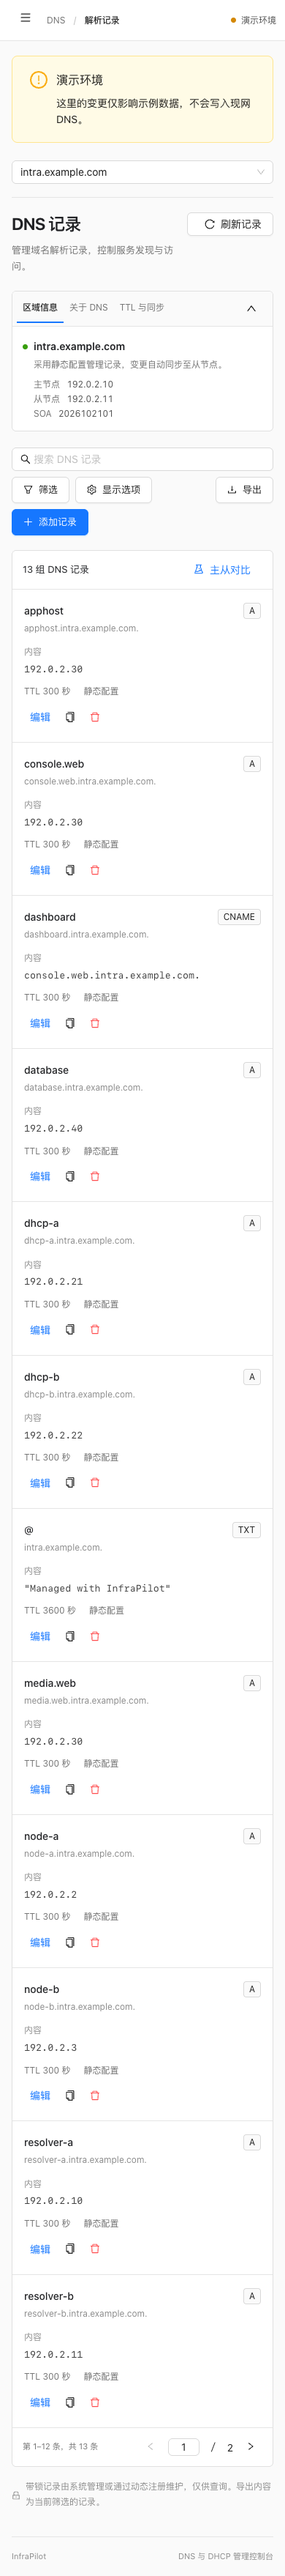
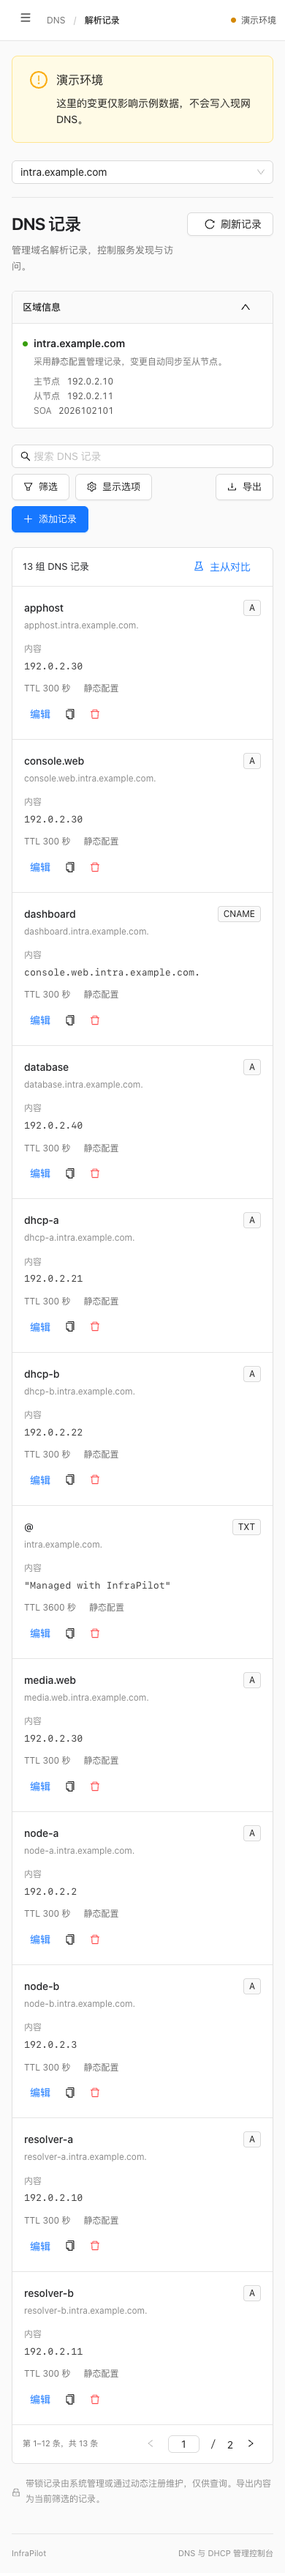
Simplify DNS zone information card

diff --git a/frontend/src/views/RecordsView.vue b/frontend/src/views/RecordsView.vue
@@ -74,8 +74,7 @@ const page = ref(1),
   pageSize = ref(12),
   editableOnly = ref(false);
 const visibleColumns = ref(["values", "management", "ttl"]);
-const referenceOpen = ref(true),
-  referenceTab = ref("zone");
+const referenceOpen = ref(true);
 const media = window.matchMedia("(max-width: 760px)");
 const mobile = ref(media.matches);
 function resize(e: MediaQueryListEvent) {
@@ -282,73 +281,40 @@ function shortName(name: string) {
   <a-skeleton v-if="loading" active :paragraph="{ rows: 8 }" />
   <template v-if="data">
     <section class="dns-reference">
-      <div class="reference-tabs">
-        <button
-          v-for="tab in [
-            { id: 'zone', label: '区域信息' },
-            { id: 'dns', label: '关于 DNS' },
-            { id: 'ttl', label: 'TTL 与同步' },
-          ]"
-          :key="tab.id"
-          :class="{ active: referenceTab === tab.id }"
-          :aria-pressed="referenceTab === tab.id"
-          @click="
-            referenceTab = tab.id;
-            referenceOpen = true;
-          "
-        >
-          {{ tab.label }}</button
-        ><a-button
+      <div class="reference-header">
+        <span class="reference-title">区域信息</span>
+        <a-button
           type="text"
           :aria-label="referenceOpen ? '收起区域说明' : '展开区域说明'"
           :aria-expanded="referenceOpen"
+          aria-controls="zone-information"
           @click="referenceOpen = !referenceOpen"
           ><DownOutlined :rotate="referenceOpen ? 180 : 0"
         /></a-button>
       </div>
-      <div v-if="referenceOpen" class="reference-content">
-        <template v-if="referenceTab === 'zone'"
-          ><span class="status-dot"></span>
-          <div>
-            <h2>{{ data.zone.name.replace(/\.$/, "") }}</h2>
-            <p>
-              {{
-                data.zone.readOnly
-                  ? "记录通过动态注册生成，并随客户端租约自动更新。"
-                  : "采用静态配置管理记录，变更自动同步至从节点。"
-              }}
-            </p>
-            <div class="zone-meta">
-              <span
-                >主节点 <b>{{ data.zone.primary }}</b></span
-              ><span
-                >从节点
-                <b>{{ data.zone.secondaries.join(", ") || "未配置" }}</b></span
-              ><span
-                >SOA <b>{{ data.zone.serial }}</b></span
-              >
-            </div>
+      <div v-if="referenceOpen" id="zone-information" class="reference-content">
+        <span class="status-dot"></span>
+        <div>
+          <h2>{{ data.zone.name.replace(/\.$/, "") }}</h2>
+          <p>
+            {{
+              data.zone.readOnly
+                ? "记录通过动态注册生成，并随客户端租约自动更新。"
+                : "采用静态配置管理记录，变更自动同步至从节点。"
+            }}
+          </p>
+          <div class="zone-meta">
+            <span
+              >主节点 <b>{{ data.zone.primary }}</b></span
+            ><span
+              >从节点
+              <b>{{ data.zone.secondaries.join(", ") || "未配置" }}</b></span
+            ><span
+              >SOA <b>{{ data.zone.serial }}</b></span
+            >
           </div>
-          <a-tag>{{
-            data.zone.readOnly ? "动态注册" : "静态配置"
-          }}</a-tag></template
-        ><template v-else-if="referenceTab === 'dns'"
-          ><div>
-            <strong>名称、类型与内容共同决定一条 DNS 记录。</strong>
-            <p>
-              A / AAAA 指向 IP，CNAME 指向其他域名，PTR 用于反向解析。系统记录和
-              DHCID 所有权记录受保护。
-            </p>
-          </div></template
-        ><template v-else
-          ><div>
-            <strong>TTL 决定解析结果可被缓存的时间，单位为秒。</strong>
-            <p>
-              保存后从节点自动同步。已有客户端缓存可能保留到 TTL
-              结束，可通过“主从对比”核对服务器上的实际记录。
-            </p>
-          </div></template
-        >
+        </div>
+        <a-tag>{{ data.zone.readOnly ? "动态注册" : "静态配置" }}</a-tag>
       </div>
     </section>
     <a-alert

diff --git a/frontend/src/style.css b/frontend/src/style.css
@@ -276,30 +276,21 @@ a:focus-visible {
   background: #fff;
   margin-bottom: 28px;
 }
-.reference-tabs {
+.reference-header {
   display: flex;
   align-items: center;
   min-height: 48px;
   gap: 8px;
   background: #fafafa;
   border-bottom: 1px solid #e5e5e5;
-  padding: 0 16px;
+  padding: 0 22px;
 }
-.reference-tabs > button:not(.ant-btn) {
-  border: 0;
-  border-bottom: 2px solid transparent;
-  padding: 14px 10px 12px;
-  background: transparent;
-  color: #737373;
+.reference-title {
   font-size: 14px;
-  cursor: pointer;
-}
-.reference-tabs > button.active {
-  border-bottom-color: #1677ff;
   color: #262626;
   font-weight: 500;
 }
-.reference-tabs > .ant-btn {
+.reference-header > .ant-btn {
   margin-left: auto;
 }
 .reference-content {
@@ -906,9 +897,6 @@ a:focus-visible {
   .overview-zone:hover {
     background: #fafafa;
   }
-  .reference-tabs > button:not(.ant-btn):hover {
-    color: #1677ff;
-  }
 }
 @media (max-width: 1200px) {
   .page-content {
@@ -1031,13 +1019,12 @@ a:focus-visible {
   .dns-reference {
     margin-bottom: 22px;
   }
-  .reference-tabs {
-    padding: 0 6px;
-    gap: 0;
+  .reference-header {
+    min-height: 44px;
+    padding: 0 14px;
   }
-  .reference-tabs > button:not(.ant-btn) {
-    padding: 12px 8px;
-    font-size: 12px;
+  .reference-title {
+    font-size: 13px;
   }
   .reference-content {
     padding: 16px 14px;
